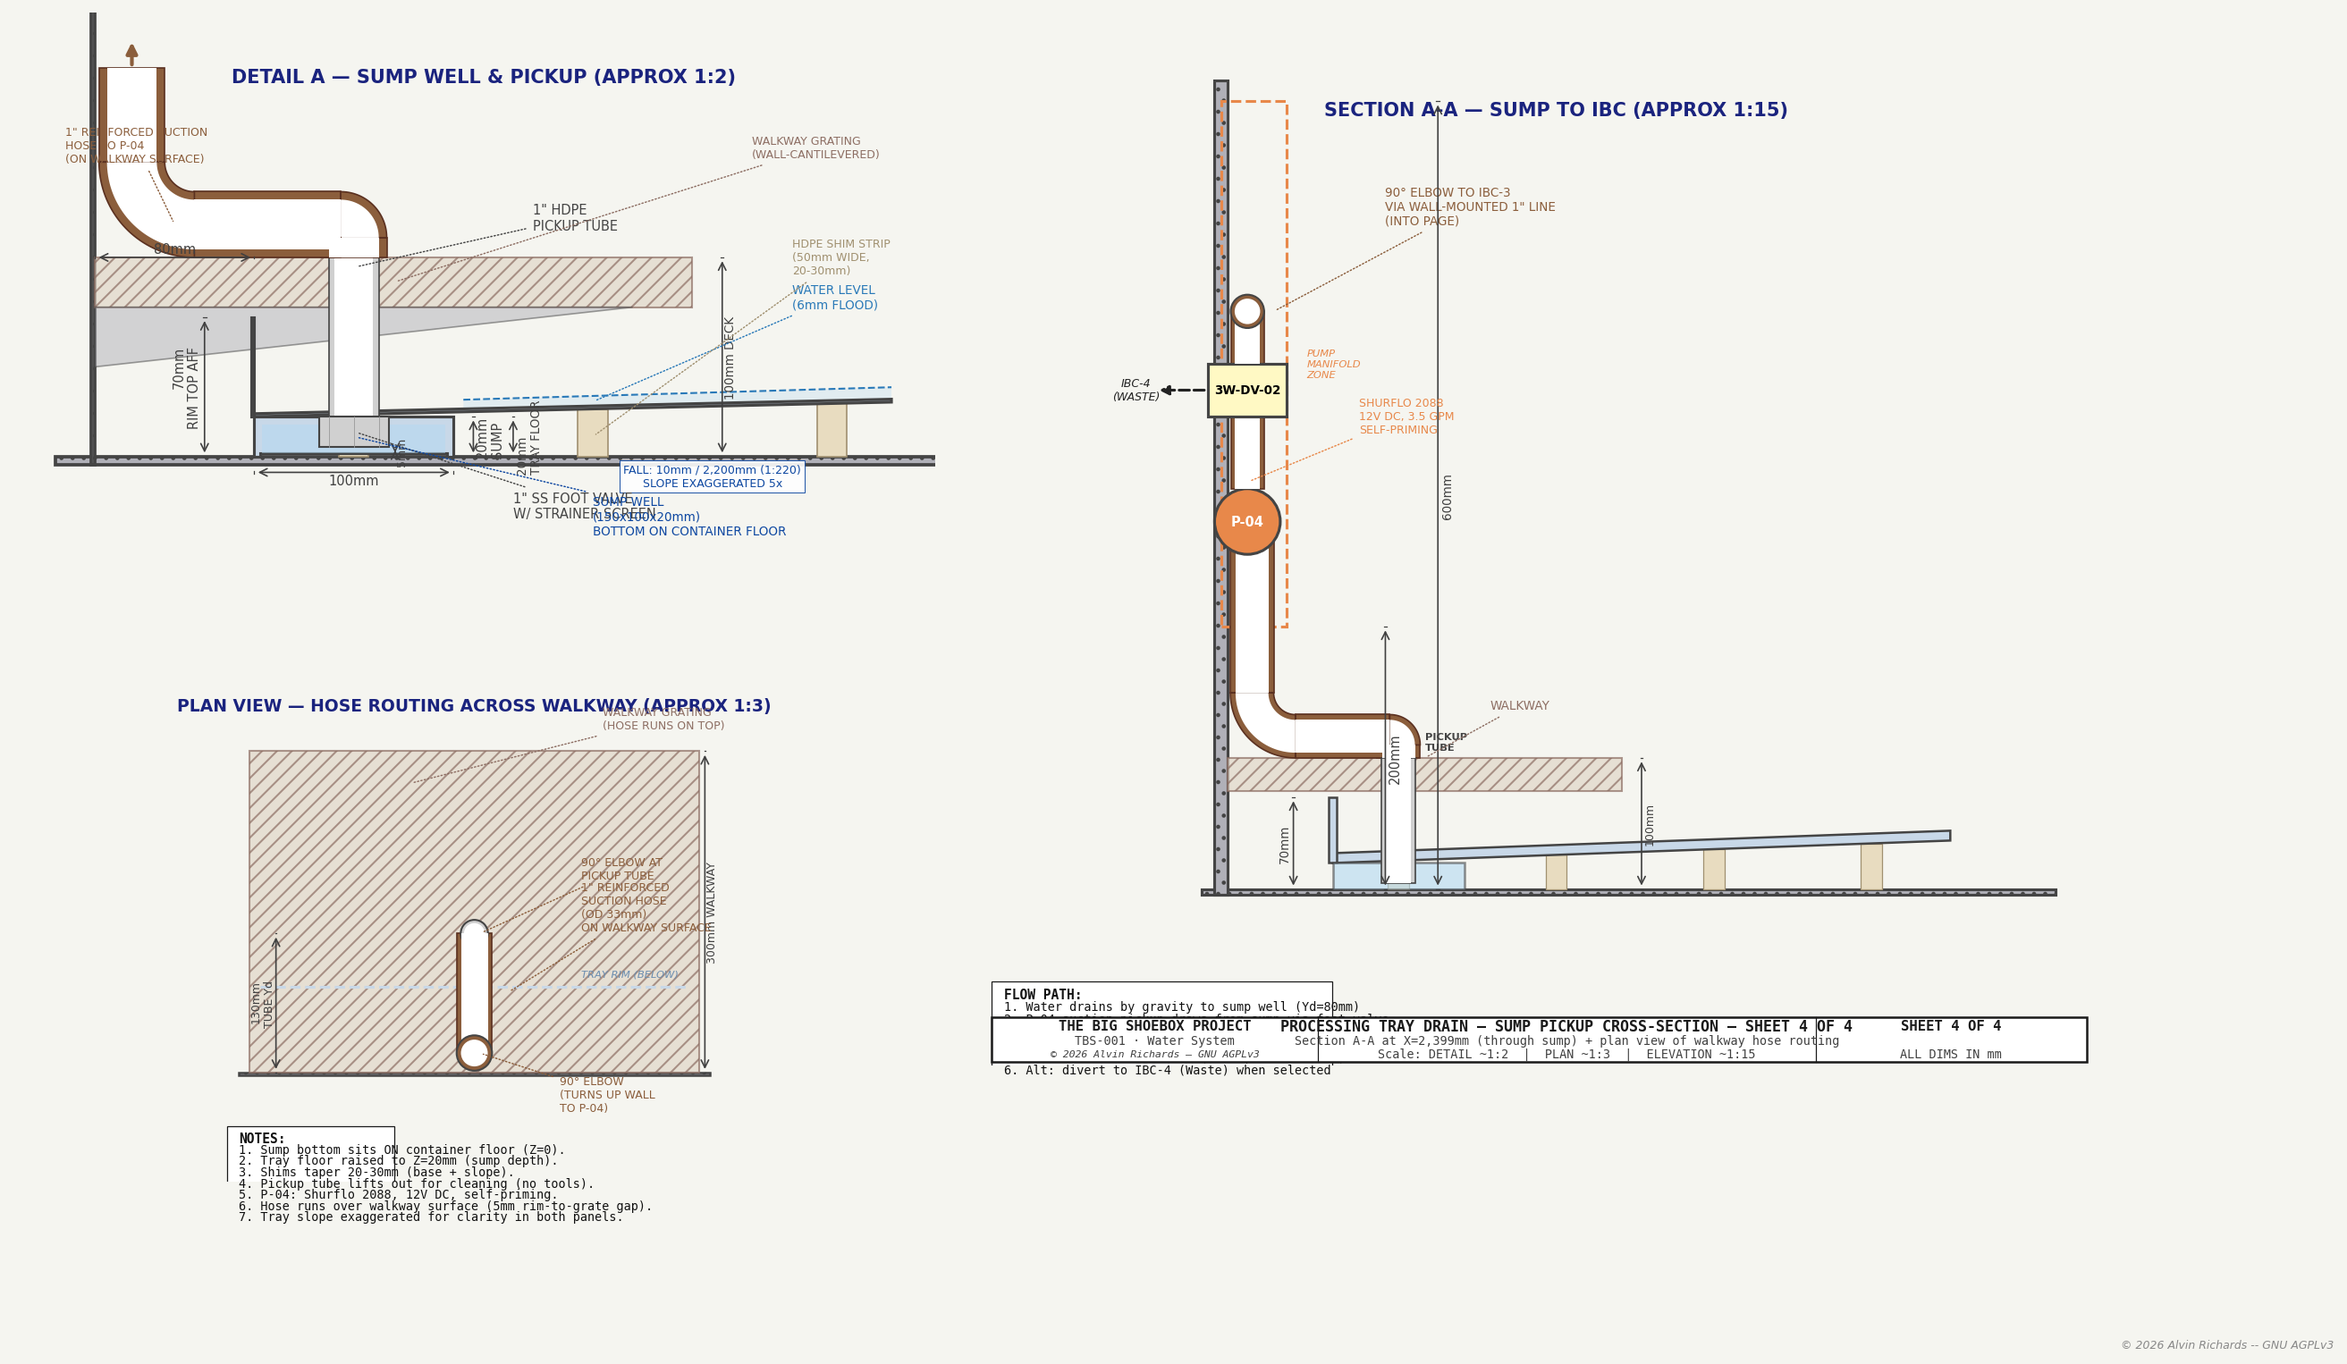
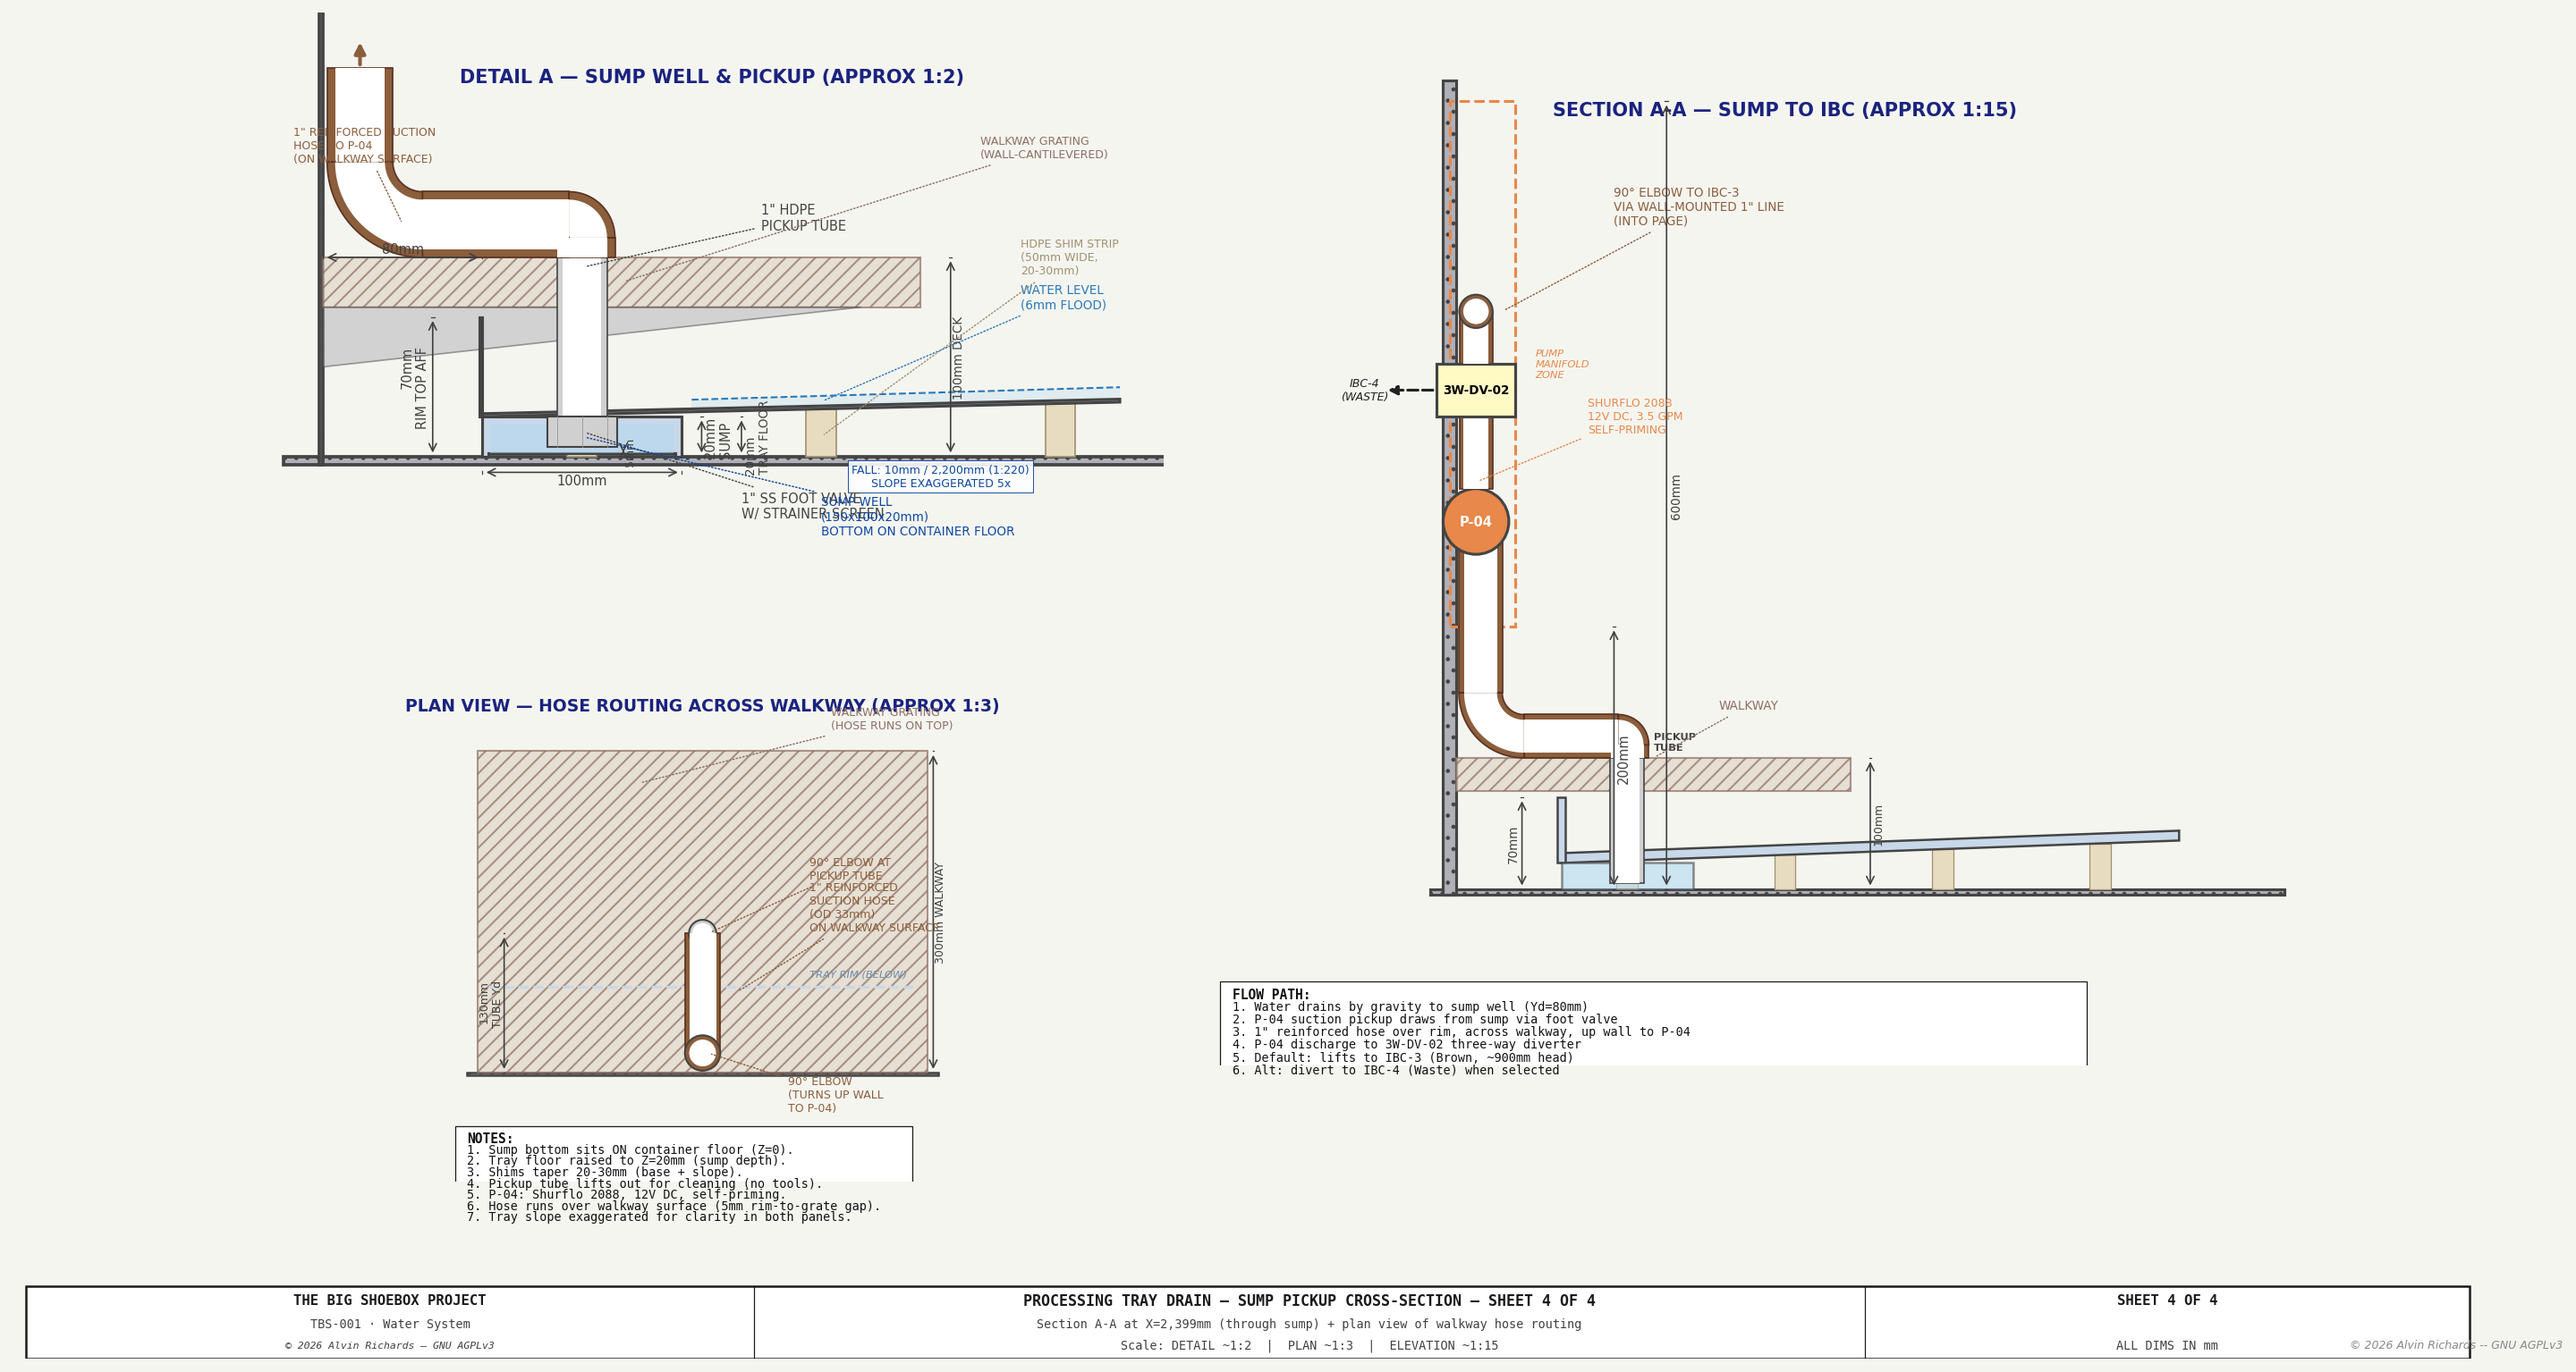
Fix water system sheet 3/4 notes layout
Sheet 4: move title block to full-width axes spanning both columns,
widen notes and flow path border boxes to contain text.
Sheet 3: reduce notes line spacing by 50%.

diff --git a/generate_water_system.py b/generate_water_system.py
@@ -975,7 +975,7 @@ notes = [
     f"4. Tray: 304 SS, {PROC_TRAY_RIM}mm rim, on tapered HDPE shim strips. No tray floor penetration.",
     f"5. Wall-cantilevered walkway — no legs or structure on tray floor near sump.",
 ]
-draw_notes(ax3, notes, 0.3, -0.8, spacing=0.4, fs=7, width=14,
+draw_notes(ax3, notes, 0.3, -0.8, spacing=0.2, fs=7, width=14,
            color=C_TEXT, title_color=C_TEXT, font={"fontfamily": "monospace"})
 
 # ── Copyright ────────────────────────────────────────────────────────────────
@@ -1010,12 +1010,17 @@ for axx in (ax4a, ax4b, ax4c):
     axx.axis("off")
     axx.set_aspect("equal")
 
-# ── Title block (spans both panels) ─────────────────────────────────────────
-title_block(ax4b, "SHEET 4 OF 4",
+# ── Title block (full-width axes spanning both columns) ───────────────────
+ax4_tb = fig4.add_axes([0.04, 0.0, 0.92, 0.06])
+ax4_tb.set_xlim(0, 1)
+ax4_tb.set_ylim(0, 1)
+ax4_tb.axis("off")
+title_block(ax4_tb, "SHEET 4 OF 4",
             drawing_title="PROCESSING TRAY DRAIN — SUMP PICKUP CROSS-SECTION",
             subtitle="Section A-A at X=2,399mm (through sump) + plan view of walkway hose routing",
             scale_note="DETAIL ~1:2  |  PLAN ~1:3  |  ELEVATION ~1:15",
-            doc_id="TBS-001 · Water System")
+            doc_id="TBS-001 · Water System",
+            height=0.75)
 
 from matplotlib.patches import Arc as MplArc
 
@@ -1738,7 +1743,7 @@ flow_notes = [
     "6. Alt: divert to IBC-4 (Waste) when selected",
 ]
 draw_notes(ax4b, flow_notes, sb_y(-170), sb_z(-75), spacing=1.2,
-           fs=6.5, width=30, color=C_TEXT, title_color=C_TEXT,
+           fs=6.5, width=80, color=C_TEXT, title_color=C_TEXT,
            font={"fontfamily": "monospace"})
 
 # ── Notes ────────────────────────────────────────────────────────────────────
@@ -1753,7 +1758,7 @@ notes4 = [
     "7. Tray slope exaggerated for clarity in both panels.",
 ]
 draw_notes(ax4c, notes4, sc_x(X_VIEW_L - 20), sc_yd(-55), spacing=3.5,
-           fs=6.5, width=45, color=C_TEXT, title_color=C_TEXT,
+           fs=6.5, width=135, color=C_TEXT, title_color=C_TEXT,
            font={"fontfamily": "monospace"})
 
 # ── Copyright ────────────────────────────────────────────────────────────────
